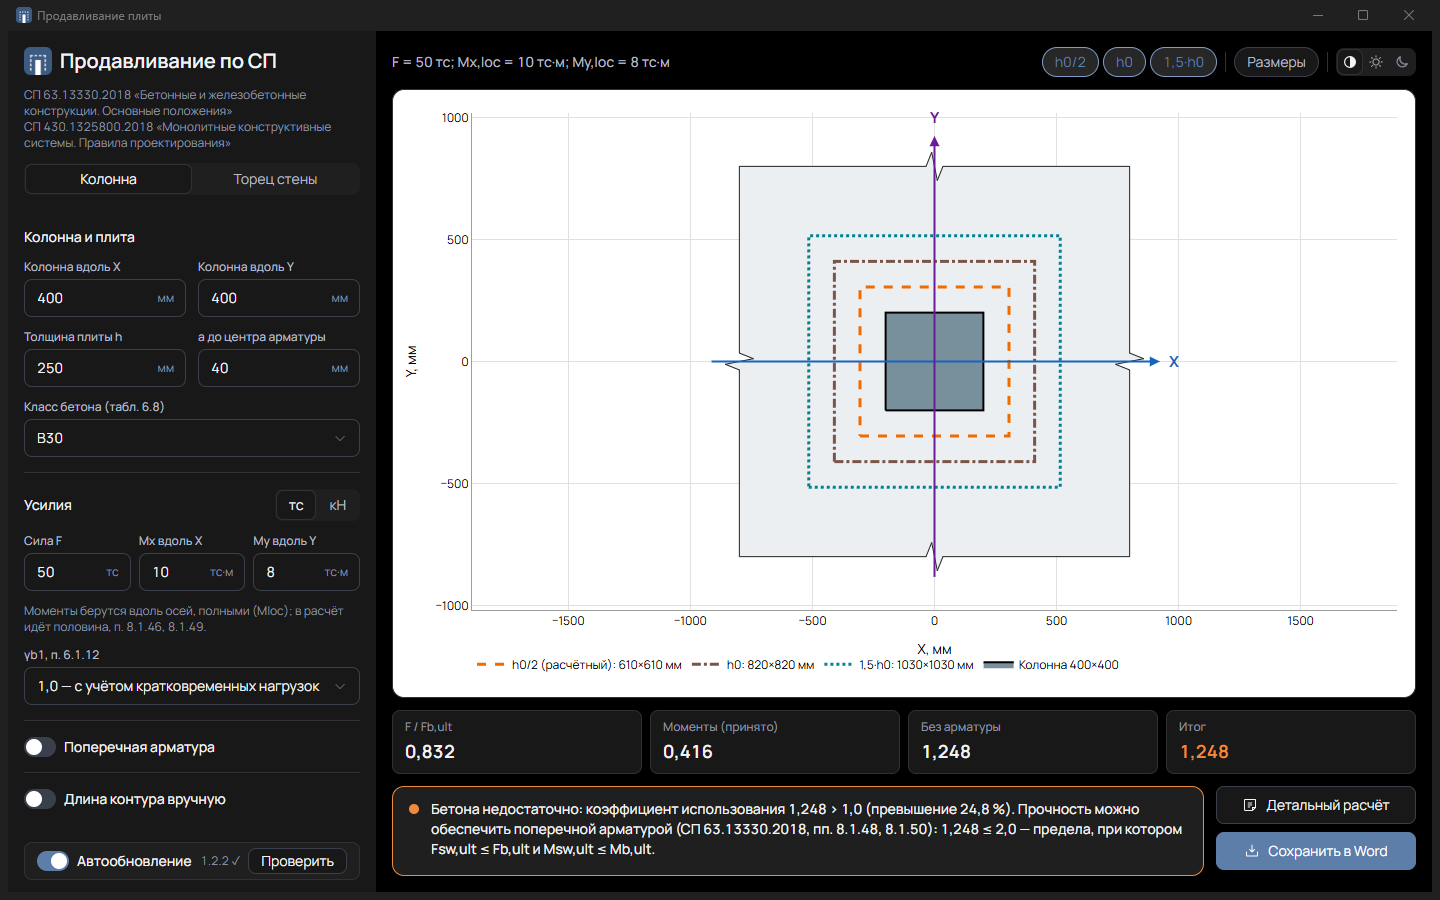
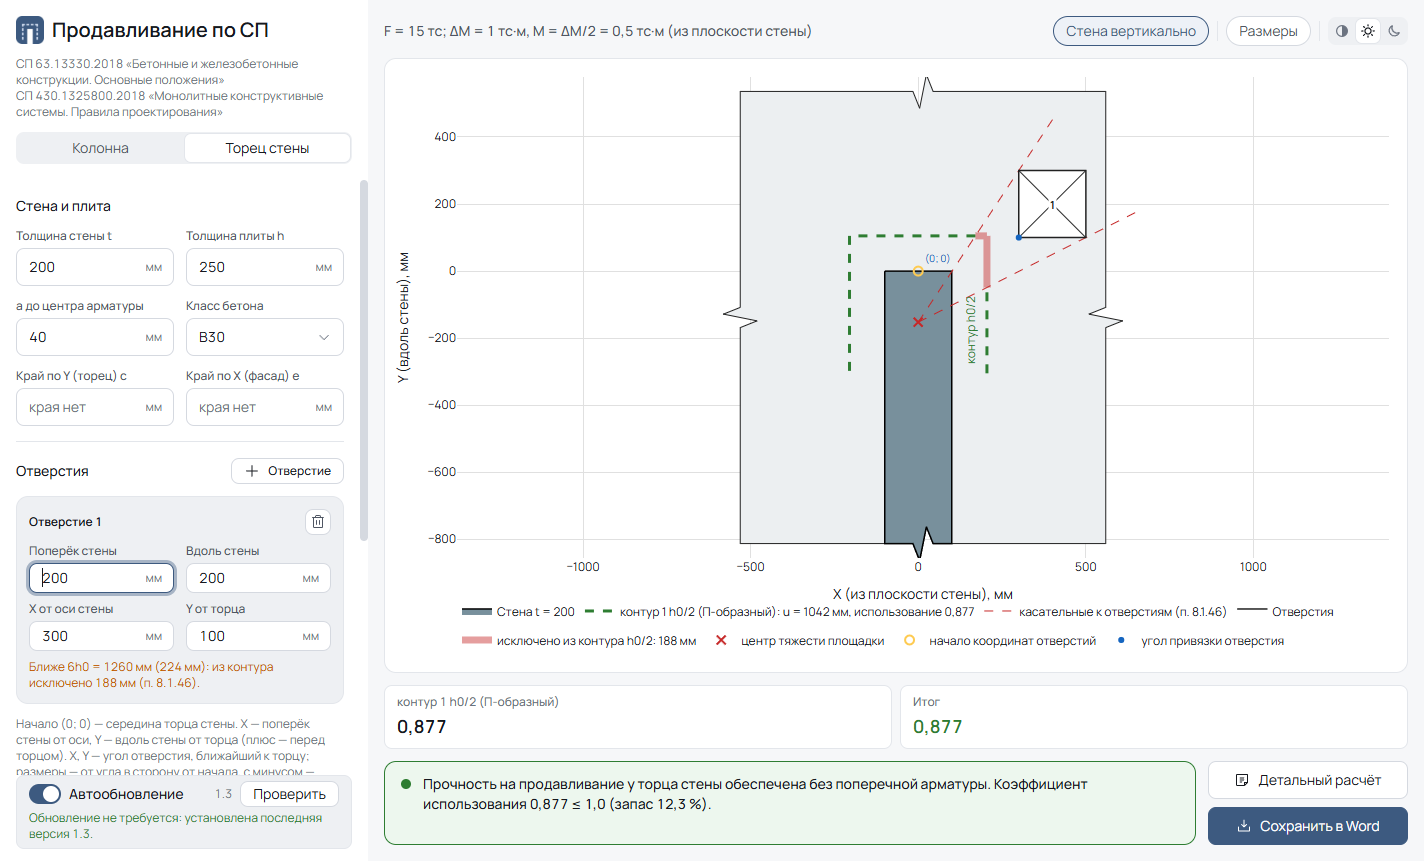
1.3: отверстия, тёмная тема плана, ширина панели, строка автообновления

diff --git a/README.md b/README.md
@@ -9,7 +9,7 @@
 
 ## Скачать
 
-**[⬇ Скачать «Продавливание плиты» 1.2.2 (программа .exe)](https://github.com/stf-24/punching-shear-calc-releases/releases/download/v1.2.2/Prodavlivanie-plity.exe)**
+**[⬇ Скачать «Продавливание плиты» 1.3 (программа .exe)](https://github.com/stf-24/punching-shear-calc-releases/releases/download/v1.3/Prodavlivanie-plity.exe)**
 
 Все версии — на странице [Releases](https://github.com/stf-24/punching-shear-calc-releases/releases).
 
@@ -31,6 +31,10 @@
   от фасада (СП 430.1325800.2018, п. 6.3.8).
 - **Поперечная арматура** в обоих узлах: диаметр, класс (A240, A400, A500, B500), поперечный шаг;
   первый ряд, продольный шаг и число рядов подбираются по п. 10.3.17, проверка за зоной армирования.
+- **Отверстия** у колонны и у торца стены — сколько угодно: размеры и угол привязки от центра колонны
+  или середины торца стены. Отверстие ближе 6h0 исключает часть контура между касательными
+  (СП 63.13330.2018, п. 8.1.46); длина контура, моменты сопротивления и дополнительный момент
+  от смещения центра тяжести пересчитываются автоматически.
 - Бетон B3,5–B100, коэффициент условий работы γb1 = 1,0 или 0,9 (п. 6.1.12), усилия в тс или кН.
 - **Итог цветом:** зелёный — прочность обеспечена; оранжевый — нужна поперечная арматура;
   красный — нужно менять сечение.
@@ -39,14 +43,11 @@
 - **Word (.docx)** — тот же расчёт с редактируемыми формулами и планом узла для пояснительной записки.
 
 Не реализовано по нормам (сейчас — только ручным вводом длины контура u и Wb): колонна у края и в углу
-плиты, отверстия рядом с колонной или стеной, угол стены, непрямоугольные колонны, капители.
+плиты, угол стены, непрямоугольные колонны, капители, круглые отверстия.
 Подробности — в описании каждой версии.
 
 ## Планы
 
-- **Отверстия в плите** рядом с колонной или стеной: задание положения и габаритов отверстия,
-  автоматическое исключение участков расчётного контура (СП 63.13330.2018, п. 8.1.46) и показ
-  отверстия на плане.
 - **Продавливание углом стены** (Г-образный узел) — СП 430.1325800.2018, п. 6.3.8, рис. 6.2.
 
 ## Условия
@@ -55,6 +56,33 @@
 без каких-либо гарантий. Результаты расчёта проверяет и принимает инженер, выполняющий расчёт.
 
 ## История изменений
+
+### [1.3](https://github.com/stf-24/punching-shear-calc-releases/releases/tag/v1.3)
+
+Дата выпуска: 24.11.2026
+
+Номер версии утвердил: Stf
+
+#### Новое
+- Учёт отверстий у колонны и у торца стены (СП 63.13330.2018, п. 8.1.46): блок «Отверстия», кнопка
+  «+ Отверстие», число отверстий не ограничено.
+- Отверстие задаётся размерами и углом, ближайшим к началу координат: у колонны — от её центра,
+  у стены — от середины торца (X — поперёк стены, Y — вдоль стены). Размер со знаком минус
+  откладывается через ось.
+- Отверстие ближе 6h0 исключает часть контура между касательными из центра тяжести площадки;
+  длина контура, центр тяжести (8.99), моменты сопротивления (8.98) и момент F·e0 пересчитываются
+  автоматически, поперечная арматура считается по уменьшенной длине контура.
+- На плане — отверстие чертёжным обозначением (контур с диагоналями), касательные и исключённые
+  участки контура; в детальном расчёте и Word — раздел «Отверстия».
+- Тёмная тема — окно тёмное целиком, включая план; светлая — светлое.
+- Ширину левой панели можно менять, перетаскивая границу между панелью и планом.
+- Строка автообновления пишется целиком: зелёным — обновление не требуется, красным — требуется.
+
+#### Важно для пользователей
+- У торца стены площадкой передачи нагрузки принята часть стены внутри контура: от неё отсчитываются
+  6h0, из её центра тяжести проводятся касательные (норма площадку для стены не определяет).
+  Для отверстия сбоку от стены за торцом это не всегда наибольший вычет — проверяйте такие узлы.
+- Отверстия только прямоугольные; при ручном вводе длины контура они не учитываются.
 
 ### [1.2.2](https://github.com/stf-24/punching-shear-calc-releases/releases/tag/v1.2.2)
 
